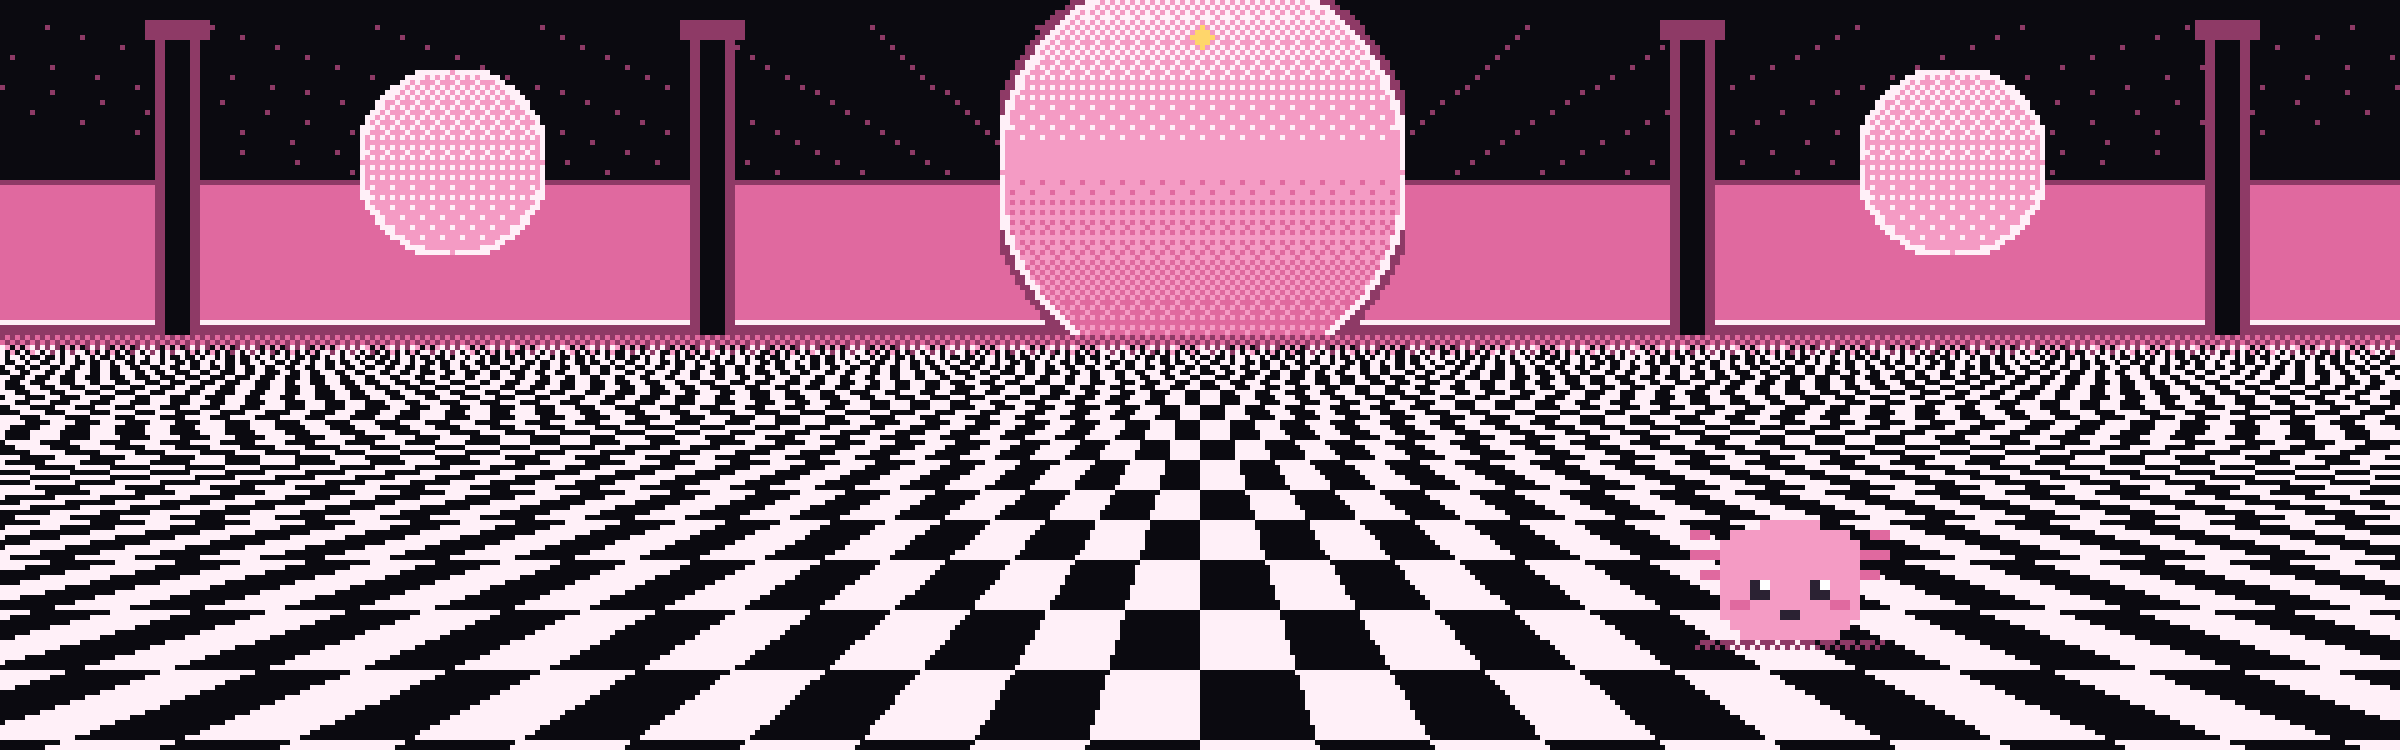
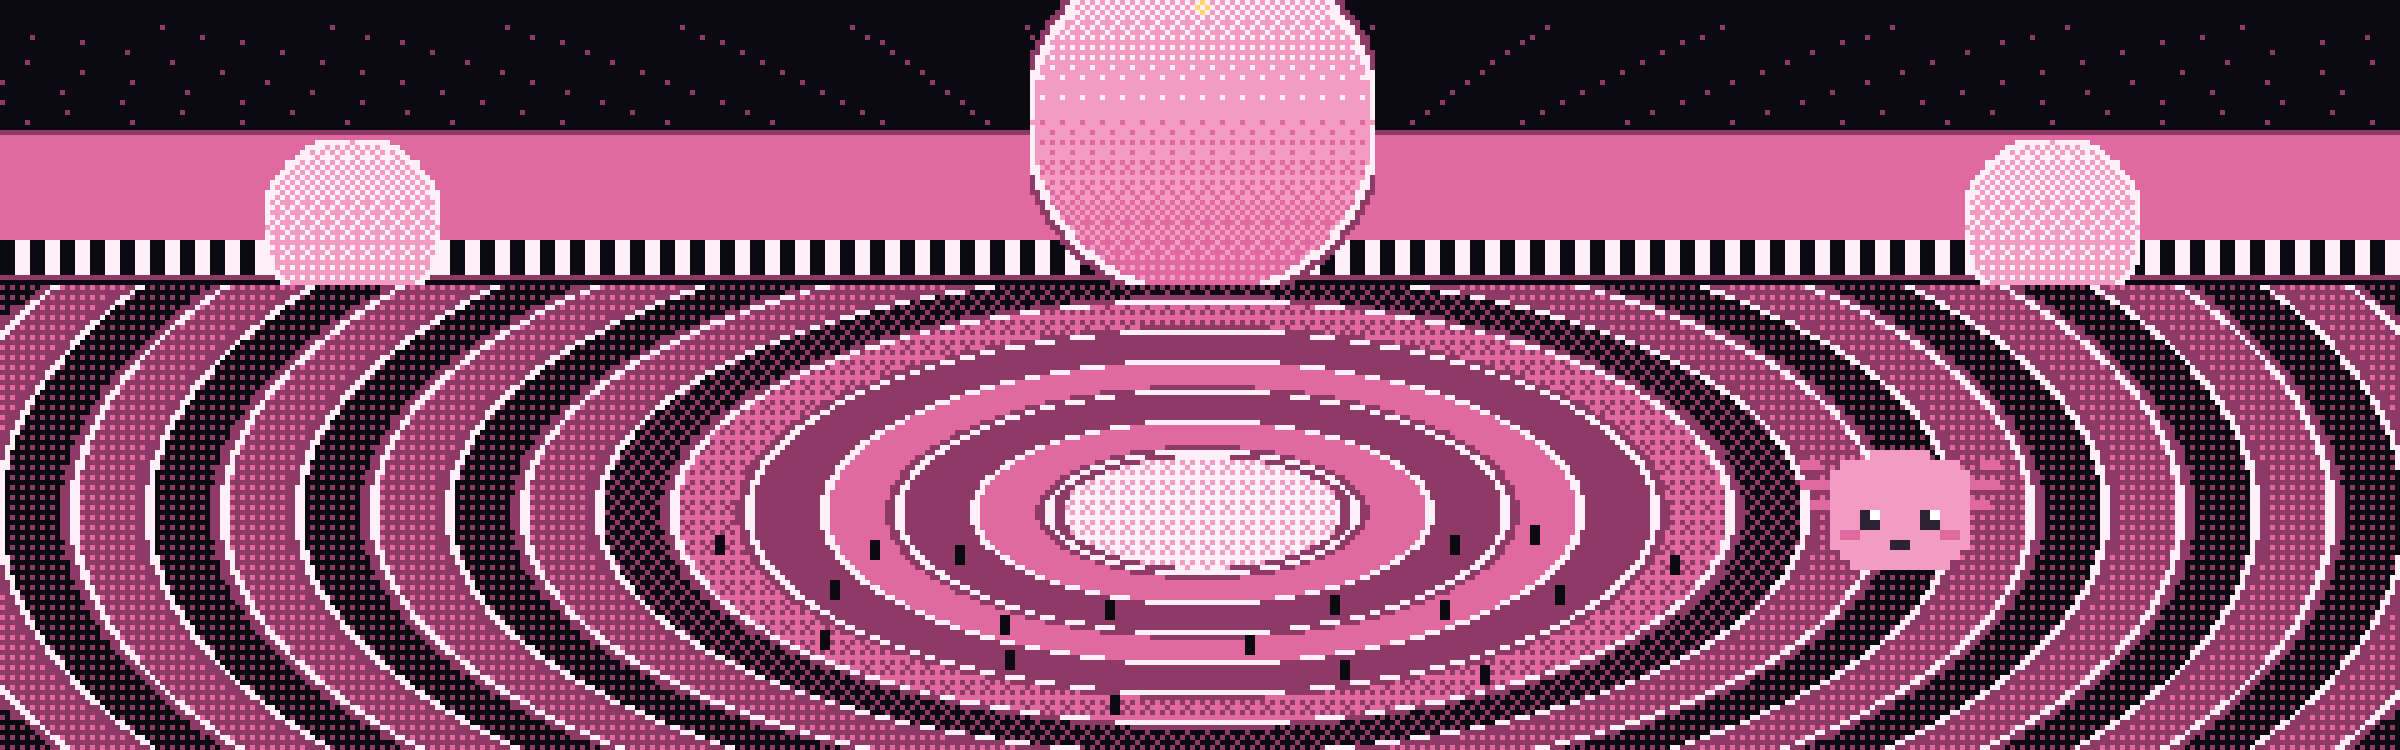
feat(site): 포트폴리오 v15 — 해부극장 + 스크롤 카메라 (란티모스 인상 패스)
체커보드 제거: 두 씬을 표본 무대 중심 동심원 계단 관중석(해부극장)으로
재구축 — 페트리 링=루프 링, 계단의 감사자 실루엣, 오브 램프. 와이드 홀은
터미널이 표본(Geodi는 관중석에). 스크롤=카메라: 씬 푸시줌, 홀 풀백,
워드마크 룸, 배너 패럴랙스, 고스트 카운터줌 (transform-only, RM 게이트).

Claude-Session: https://claude.ai/code/session_01PqVsEXaJAUXfpCbsdzRavA

diff --git a/site/src/app/portfolio/page.tsx b/site/src/app/portfolio/page.tsx
@@ -8,7 +8,7 @@ import { Token } from "@astryxdesign/core/Token";
 import { motion, useReducedMotion, useScroll, useTransform } from "framer-motion";
 import Image from "next/image";
 import Link from "next/link";
-import { useState } from "react";
+import { useRef, useState } from "react";
 
 import { GeodiSprite } from "@/components/geode/geodi-sprite";
 import { LocaleProvider, t, useLocale } from "@/components/geode/locale-context";
@@ -137,6 +137,8 @@ function HeroField() {
   const { scrollY } = useScroll();
   const fieldOpacity = useTransform(scrollY, [0, 700], [1, 0.25]);
   const fieldScale = useTransform(scrollY, [0, 700], [1, 0.965]);
+  // The Lanthimos zoom: scroll pushes the camera into the theatre.
+  const sceneZoom = useTransform(scrollY, [0, 900], [1, 1.22]);
   // Reduced motion keeps the fades but drops movement/scale.
   const heroItem = {
     hidden: { opacity: 0, y: reduceMotion ? 0 : 24 },
@@ -218,7 +220,9 @@ function HeroField() {
             <motion.div
               animate={reduceMotion ? undefined : { y: [0, -7, 0] }}
               transition={{ duration: 7, repeat: Infinity, ease: "easeInOut" }}
+              className="overflow-hidden"
             >
+              <motion.div style={{ scale: reduceMotion ? 1 : sceneZoom, transformOrigin: "50% 78%" }}>
               <Image
                 src="/geode/images/geode-lab-scene.png"
                 alt={t(
@@ -232,6 +236,7 @@ function HeroField() {
                 className="w-full select-none border border-[color-mix(in_srgb,var(--paper)_35%,transparent)]"
                 style={{ imageRendering: "pixelated" }}
               />
+              </motion.div>
             </motion.div>
           </motion.div>
         </div>
@@ -246,21 +251,27 @@ function HeroField() {
   );
 }
 
-/** Full-bleed gallery band: blurred illustration with the CLI terminal. */
+/** Full-bleed gallery band: the theatre hall with the CLI terminal on stage. */
 function GalleryBand() {
   const locale = useLocale();
   const reduceMotion = useReducedMotion();
+  const bandRef = useRef<HTMLDivElement | null>(null);
+  const { scrollYProgress } = useScroll({ target: bandRef, offset: ["start end", "end start"] });
+  // Camera pulls back as the act arrives, then keeps drifting.
+  const hallScale = useTransform(scrollYProgress, [0, 0.5, 1], [1.28, 1.06, 1]);
   return (
-      <div className="relative w-full">
-        <Image
-          src="/geode/images/geode-hall-wide.png"
-          alt=""
-          aria-hidden
-          width={2400}
-          height={750}
-          className="h-[480px] w-full select-none object-cover sm:h-[560px]"
-          style={{ imageRendering: "pixelated" }}
-        />
+      <div ref={bandRef} className="relative w-full overflow-hidden">
+        <motion.div style={{ scale: reduceMotion ? 1 : hallScale, transformOrigin: "50% 42%" }}>
+          <Image
+            src="/geode/images/geode-hall-wide.png"
+            alt=""
+            aria-hidden
+            width={2400}
+            height={750}
+            className="h-[480px] w-full select-none object-cover sm:h-[560px]"
+            style={{ imageRendering: "pixelated" }}
+          />
+        </motion.div>
         <motion.div
           className="absolute inset-0 flex items-center justify-center px-4 sm:px-6"
           initial={{ opacity: 0, y: reduceMotion ? 0 : 46 }}
@@ -698,8 +709,12 @@ const features: {
 
 function FeaturesGrid() {
   const locale = useLocale();
+  const reduceMotion = useReducedMotion();
+  const slabRef = useRef<HTMLDivElement | null>(null);
+  const { scrollYProgress } = useScroll({ target: slabRef, offset: ["start end", "end start"] });
+  const bannerDrift = useTransform(scrollYProgress, [0, 1], [26, -26]);
   return (
-    <section id="features" style={{ backgroundColor: "#FFF0F8" }}>
+    <section id="features" ref={slabRef} style={{ backgroundColor: "#FFF0F8" }}>
       <div className="mx-auto max-w-7xl px-6 py-20 sm:py-28">
         <div className="grid gap-x-8 gap-y-16 md:grid-cols-2 xl:grid-cols-3">
           {features.map((feature) => (
@@ -713,8 +728,13 @@ function FeaturesGrid() {
               >
                 {locale === "en" ? feature.headEn : feature.headKo}
               </h2>
-              <div className="mt-5 flex h-[230px] items-center justify-center overflow-hidden rounded-sm bg-[var(--paper)] px-2">
-                {feature.banner}
+              <div className="mt-5 h-[230px] overflow-hidden rounded-sm bg-[var(--paper)]">
+                <motion.div
+                  className="flex h-full items-center justify-center px-2"
+                  style={{ y: reduceMotion ? 0 : bannerDrift }}
+                >
+                  {feature.banner}
+                </motion.div>
               </div>
               <p className="mt-4 max-w-[380px] text-[13px] leading-[1.75]" style={{ color: SLAB_INK }}>
                 {t(locale, feature.ko, feature.en)}
@@ -737,14 +757,22 @@ function FeaturesGrid() {
 /* ---------------- giant wordmark band ------------------------------------ */
 
 function WordmarkBand() {
+  const reduceMotion = useReducedMotion();
+  const bandRef = useRef<HTMLDivElement | null>(null);
+  const { scrollYProgress } = useScroll({ target: bandRef, offset: ["start end", "end start"] });
+  const loom = useTransform(scrollYProgress, [0, 1], [0.9, 1.12]);
   return (
     <div
+      ref={bandRef}
       aria-hidden
       className="flex h-screen select-none items-center justify-center overflow-hidden bg-[var(--paper)]"
     >
-      <p className="font-pixel whitespace-nowrap text-center text-[23.5vw] font-bold leading-[0.86] text-[var(--acc-artifact)]">
+      <motion.p
+        style={{ scale: reduceMotion ? 1 : loom }}
+        className="font-pixel whitespace-nowrap text-center text-[23.5vw] font-bold leading-[0.86] text-[var(--acc-artifact)]"
+      >
         GEODE
-      </p>
+      </motion.p>
     </div>
   );
 }
@@ -754,12 +782,18 @@ function WordmarkBand() {
 function LabFinale() {
   const locale = useLocale();
   const reduceMotion = useReducedMotion();
+  const finaleRef = useRef<HTMLElement | null>(null);
+  const { scrollYProgress } = useScroll({ target: finaleRef, offset: ["start end", "end start"] });
+  const ghostScale = useTransform(scrollYProgress, [0, 1], [1.16, 0.94]);
   return (
-    <section id="lab" className="relative overflow-hidden bg-[var(--acc-artifact)]">
+    <section id="lab" ref={finaleRef} className="relative overflow-hidden bg-[var(--acc-artifact)]">
       <div aria-hidden className="pointer-events-none absolute inset-0 flex items-center justify-center">
-        <span className="font-pixel select-none text-[24vw] font-bold leading-none text-[var(--paper)] opacity-[0.06]">
+        <motion.span
+          style={{ scale: reduceMotion ? 1 : ghostScale }}
+          className="font-pixel select-none text-[24vw] font-bold leading-none text-[var(--paper)] opacity-[0.06]"
+        >
           GEODE
-        </span>
+        </motion.span>
       </div>
       <div className="relative z-10 mx-auto flex max-w-5xl flex-col items-center gap-7 px-6 py-24 text-center sm:py-32">
         <p className="font-mono text-[11px] uppercase tracking-[0.3em] text-[color-mix(in_srgb,var(--paper)_65%,transparent)]">

diff --git a/site/src/data/geode/changelog.ts b/site/src/data/geode/changelog.ts
@@ -19,7 +19,7 @@ export const CHANGELOG: ChangelogEntry[] = [
   {
     "version": "0.99.287",
     "date": "2026-07-10",
-    "body": "### Changed\n\n- **Portfolio v11 — landing-grade pass on the growth log (operator feedback\n  batch).** The hero is now centered with a terminal mock of the real CLI\n  welcome screen (`core/ui/mascot.py` line layout + `GEODI_PIXELS` sprite,\n  2-frame idle bob and blinking prompt caret, `prefers-reduced-motion`\n  respected), followed by a bento sheet band: the character-sheet aside, a\n  bench card rendering the synced tau2/MCPMark matrices\n  (`src/data/geode/benchmark-measurements.ts` — Retail 0.763 / Telecom 0.877 /\n  Airline 0.820 base runs, MCPMark filesystem/easy 100%), and a refreshed\n  tech-stack card (`tech-stack.ts` re-measured 2026-07-10; the stale\n  LangGraph/98-tests inventory is gone). Reference bar: the Claude Code\n  landing (product moment first, mascot as section divider, dated feed).\n- **Character-facing display font: Galmuri11.** The pixel font (SIL OFL,\n  woff2 vendored in `site/src/fonts/`) now carries /portfolio display\n  headings, era titles, stat numbers, and the docs-shell wordmark, matching\n  the dot mascot; body prose stays Inter. Korean headings use\n  `word-break: keep-all`.\n- **Docs shell carries the mascot.** The docs header brand renders a static\n  `GeodiSprite` beside the pixel wordmark; docs prose remains mascot-free.\n- **Selling points over inventory counts (operator feedback).** A \"why geode\"\n  section leads the page with the three differentiators (safety-gated\n  self-improvement, an execution-owning loop, subscription-resident\n  multi-provider), each pinned to a code path; the hero paragraph now sells\n  the essence instead of release counts. Section 03's body loop gains a\n  pixel-styled hexagon cycle diagram (while(tool_use) ring, finalize exit);\n  bench matrices gain per-value bars plus explicit model · provider · source\n  route lines (gpt-5.5 · openai-codex · subscription / gpt-5.2 · openai ·\n  payg), and the character sheet records supported providers. Copy: \"부화\"\n  retired for a \"Birth\" label, \"장비\" for \"도구\"; the growth log ends with an\n  open \"next act\" row reserved for the first self-cut release.\n- **Loop-laboratory art direction, final pass (Hermes landing x Lanthimos).**\n  Full rewrite of the page's first act: a rose color-field hero in the Hermes\n  split composition (editorial Noto Serif KR black statement left, generated\n  white-line engraving of the mascot right — PIL FIND_EDGES + dither hatch,\n  edge-feathered into the field), pixel wordmark as the centered brand mark,\n  mono small-caps labels, print-edition corner stamps (version, license), and\n  a full-bleed blurred gallery band with the real CLI welcome terminal\n  floating at its center. The chapter break becomes a portal-style band:\n  ghost pixel watermark, serif declaration, and the mascot as a specimen in a\n  circular petri dish (the audit system is literally named Petri). Type\n  hierarchy is now serif = statements/section titles, pixel = wordmark and\n  character surfaces, mono = labels. The YouTube demo section is removed per\n  operator; frontend stack is confirmed as Next.js 16 + React 19 + Tailwind 4\n  + Astryx + Galmuri11 + Noto Serif KR.\n- **Set dressing pass (operator: less lo-fi, more Lanthimos + Hermes).**\n  The hero scene gains engraving-style rays radiating from the gold sun,\n  arched gallery windows with tracery, a striped dado (the Poor Things bar\n  counter), stacked glowing orb lamps, and a specimen dais inlaid beneath\n  the mascot; the gallery blur is replaced by a generated wide pixel hall\n  (`geode-hall-wide.png`, three portholes + colonnade) so the floating\n  terminal sits in front of the central porthole. Reduced-motion now keeps\n  opacity fades (movement/scale only are dropped) so choreography survives\n  macOS Reduce Motion; dead CadenceChart code removed.\n- **Act-curtain page transitions.** Scrolling now changes acts instead of\n  sliding one long page: the hero field pins beneath the flow and dims/scales\n  back as the gallery band rides over it, and the giant wordmark pins as a\n  full-screen act that the rose finale then covers (pure position: sticky\n  stacking + framer scroll transforms — no scroll hijack, fully\n  interruptible, reduced-motion gated). Vercel web-interface-guidelines pass:\n  text-balance on display headings, touch-action on primary CTAs; finale\n  eyebrow reads \"cultured since\" (lab tone) instead of \"birth\".\n- **Content demolition — the Hermes screen-recording grammar (operator\n  directive).** The dossier sections (why/sheet/loop/growth/evolve with their\n  tables and logs) are torn down and rebuilt as: a three-way RUN row\n  (Terminal / MCP Server / Daemon with command chips), six numbered\n  editorial plates on a rose-white print slab (#1 RUNS THE LOOP .. #6 ON\n  YOUR SUBSCRIPTIONS — serif-caps headlines over dark art banners reusing\n  the loop/audit/seedgen diagrams, tau2 figures, and perception lines), a\n  giant edge-to-edge pixel GEODE wordmark band, and a Loop Laboratory\n  finale (specimen dish, birth/release stats, docs + full-record CTAs,\n  corner stamps). Astryx Token remains on the reside plate; the measured\n  claims survive in distilled form.\n- **Nacreous sky field + frame-breaks (Poor Things trailer review).** The\n  hero's flat rose field becomes a generated pixel sky (`geode-sky.png`:\n  domain-warped sine swirls dithered into white crests and deep-rose shadows,\n  with a calmed zone behind the statement text), and crisp pixel clouds\n  drift across — and past — the lab-scene frame (`PixelCloud`, steps()\n  animation, reduced-motion gated).\n- **Representative character image + motion pass (dot art x Lanthimos).**\n  `geode-lab-scene.png` is generated procedurally (PIL): Geodi centered in a\n  one-point-perspective laboratory hall — The Favourite's checkerboard\n  marble, Poor Things' porthole sky with a gold sun, Sacred Deer symmetry —\n  in a 6-color pixel palette, and mounts as the hero's right panel. The page\n  defaults to English (`LocaleProvider` gains `defaultLocale`; Korean copy\n  retained behind the toggle pending operator review), and framer-motion\n  choreography lands: hero stagger, scene idle float, terminal rise into the\n  gallery band, petri-dish spring, cadence bars growing on view — all gated\n  by `useReducedMotion`. Superseded etch/plate drafts removed.\n- **Perception and action, as implemented (operator PDF review).** The loop\n  section now grounds four capabilities in their modules: the two-layer\n  prompt (`<static_context>` cached / `<dynamic_context>` per-turn with\n  provider-gated current date, `core/agent/system_prompt.py`), local PDF\n  ingest (`core/tools/document_ingest.py`), real-Chrome CDP browser use\n  (`core/tools/browser_tools.py`), and the provider-agnostic computer-use\n  harness with the AX-tree first rung (`core/tools/computer_use.py` ·\n  `ui_probe.py`). Loop copy adds the explicit termination-reason catalog.\n- **Self-evolving apparatus, drawn (Hermes-landing style feature visuals).**\n  Two pixel schematics join the loop diagram: the audit-gate diagram\n  (scaffold mutation, adversarial Petri arena, dimension bars with the\n  critical floor, promote/reject branches with the gate·random·never arms)\n  and the seed-hypothesis factory (generator, critic, pilot, ranker, evolver\n  with candidates culled per stage, Elo + difficulty survivor blend). An\n  honest attempt-history log records what did not work: the zero-promotion\n  saturation finding and Crucible cycle 1's \"proved the protocol, not\n  self-improvement\" conclusion, with dates and version anchors.\n- **Identity details.** The site favicon is now the canonical GEODI_PIXELS\n  sprite (generated `src/app/icon.png` + `favicon.ico`), a mascot-budgeted\n  404 page lands at `src/app/not-found.tsx`, and the hero/card sprites react\n  to clicks with a three-hop pixel bounce (`prefers-reduced-motion` guarded).\n- **De-slop: decorative arrows and the dev-blog link are gone.** CTA/link\n  arrows (`→`, `▸`) are removed site-portfolio-wide (ranges now use `~`), and\n  the Dev Blog link is dropped from the portfolio hero and the shared footer.\n  Growth-log sections gain restrained scroll reveals (existing framer-motion\n  `ScrollReveal`)."
+    "body": "### Changed\n\n- **Portfolio v11 — landing-grade pass on the growth log (operator feedback\n  batch).** The hero is now centered with a terminal mock of the real CLI\n  welcome screen (`core/ui/mascot.py` line layout + `GEODI_PIXELS` sprite,\n  2-frame idle bob and blinking prompt caret, `prefers-reduced-motion`\n  respected), followed by a bento sheet band: the character-sheet aside, a\n  bench card rendering the synced tau2/MCPMark matrices\n  (`src/data/geode/benchmark-measurements.ts` — Retail 0.763 / Telecom 0.877 /\n  Airline 0.820 base runs, MCPMark filesystem/easy 100%), and a refreshed\n  tech-stack card (`tech-stack.ts` re-measured 2026-07-10; the stale\n  LangGraph/98-tests inventory is gone). Reference bar: the Claude Code\n  landing (product moment first, mascot as section divider, dated feed).\n- **Character-facing display font: Galmuri11.** The pixel font (SIL OFL,\n  woff2 vendored in `site/src/fonts/`) now carries /portfolio display\n  headings, era titles, stat numbers, and the docs-shell wordmark, matching\n  the dot mascot; body prose stays Inter. Korean headings use\n  `word-break: keep-all`.\n- **Docs shell carries the mascot.** The docs header brand renders a static\n  `GeodiSprite` beside the pixel wordmark; docs prose remains mascot-free.\n- **Selling points over inventory counts (operator feedback).** A \"why geode\"\n  section leads the page with the three differentiators (safety-gated\n  self-improvement, an execution-owning loop, subscription-resident\n  multi-provider), each pinned to a code path; the hero paragraph now sells\n  the essence instead of release counts. Section 03's body loop gains a\n  pixel-styled hexagon cycle diagram (while(tool_use) ring, finalize exit);\n  bench matrices gain per-value bars plus explicit model · provider · source\n  route lines (gpt-5.5 · openai-codex · subscription / gpt-5.2 · openai ·\n  payg), and the character sheet records supported providers. Copy: \"부화\"\n  retired for a \"Birth\" label, \"장비\" for \"도구\"; the growth log ends with an\n  open \"next act\" row reserved for the first self-cut release.\n- **Loop-laboratory art direction, final pass (Hermes landing x Lanthimos).**\n  Full rewrite of the page's first act: a rose color-field hero in the Hermes\n  split composition (editorial Noto Serif KR black statement left, generated\n  white-line engraving of the mascot right — PIL FIND_EDGES + dither hatch,\n  edge-feathered into the field), pixel wordmark as the centered brand mark,\n  mono small-caps labels, print-edition corner stamps (version, license), and\n  a full-bleed blurred gallery band with the real CLI welcome terminal\n  floating at its center. The chapter break becomes a portal-style band:\n  ghost pixel watermark, serif declaration, and the mascot as a specimen in a\n  circular petri dish (the audit system is literally named Petri). Type\n  hierarchy is now serif = statements/section titles, pixel = wordmark and\n  character surfaces, mono = labels. The YouTube demo section is removed per\n  operator; frontend stack is confirmed as Next.js 16 + React 19 + Tailwind 4\n  + Astryx + Galmuri11 + Noto Serif KR.\n- **The anatomical theatre + scroll-as-camera (Lanthimos impression pass).**\n  The checkerboard floors are gone: both generated scenes are rebuilt around\n  Poor Things' anatomical theatre — concentric tiered rings around the\n  specimen stage (petri rings = loop rings), sparse dark auditor silhouettes\n  watching from the tiers (the Petri panel), orb lamps flanking; in the wide\n  hall the floating CLI terminal itself becomes the specimen (Geodi sits in\n  the audience watching its own run). Scroll now drives the cinematography:\n  the hero scene push-zooms toward the specimen (the Lanthimos slow zoom),\n  the hall pulls back as its act arrives, the pinned wordmark looms, feature\n  banners drift in parallax, and the finale ghost counter-zooms — all\n  transform-only, reduced-motion gated.\n- **Set dressing pass (operator: less lo-fi, more Lanthimos + Hermes).**\n  The hero scene gains engraving-style rays radiating from the gold sun,\n  arched gallery windows with tracery, a striped dado (the Poor Things bar\n  counter), stacked glowing orb lamps, and a specimen dais inlaid beneath\n  the mascot; the gallery blur is replaced by a generated wide pixel hall\n  (`geode-hall-wide.png`, three portholes + colonnade) so the floating\n  terminal sits in front of the central porthole. Reduced-motion now keeps\n  opacity fades (movement/scale only are dropped) so choreography survives\n  macOS Reduce Motion; dead CadenceChart code removed.\n- **Act-curtain page transitions.** Scrolling now changes acts instead of\n  sliding one long page: the hero field pins beneath the flow and dims/scales\n  back as the gallery band rides over it, and the giant wordmark pins as a\n  full-screen act that the rose finale then covers (pure position: sticky\n  stacking + framer scroll transforms — no scroll hijack, fully\n  interruptible, reduced-motion gated). Vercel web-interface-guidelines pass:\n  text-balance on display headings, touch-action on primary CTAs; finale\n  eyebrow reads \"cultured since\" (lab tone) instead of \"birth\".\n- **Content demolition — the Hermes screen-recording grammar (operator\n  directive).** The dossier sections (why/sheet/loop/growth/evolve with their\n  tables and logs) are torn down and rebuilt as: a three-way RUN row\n  (Terminal / MCP Server / Daemon with command chips), six numbered\n  editorial plates on a rose-white print slab (#1 RUNS THE LOOP .. #6 ON\n  YOUR SUBSCRIPTIONS — serif-caps headlines over dark art banners reusing\n  the loop/audit/seedgen diagrams, tau2 figures, and perception lines), a\n  giant edge-to-edge pixel GEODE wordmark band, and a Loop Laboratory\n  finale (specimen dish, birth/release stats, docs + full-record CTAs,\n  corner stamps). Astryx Token remains on the reside plate; the measured\n  claims survive in distilled form.\n- **Nacreous sky field + frame-breaks (Poor Things trailer review).** The\n  hero's flat rose field becomes a generated pixel sky (`geode-sky.png`:\n  domain-warped sine swirls dithered into white crests and deep-rose shadows,\n  with a calmed zone behind the statement text), and crisp pixel clouds\n  drift across — and past — the lab-scene frame (`PixelCloud`, steps()\n  animation, reduced-motion gated).\n- **Representative character image + motion pass (dot art x Lanthimos).**\n  `geode-lab-scene.png` is generated procedurally (PIL): Geodi centered in a\n  one-point-perspective laboratory hall — The Favourite's checkerboard\n  marble, Poor Things' porthole sky with a gold sun, Sacred Deer symmetry —\n  in a 6-color pixel palette, and mounts as the hero's right panel. The page\n  defaults to English (`LocaleProvider` gains `defaultLocale`; Korean copy\n  retained behind the toggle pending operator review), and framer-motion\n  choreography lands: hero stagger, scene idle float, terminal rise into the\n  gallery band, petri-dish spring, cadence bars growing on view — all gated\n  by `useReducedMotion`. Superseded etch/plate drafts removed.\n- **Perception and action, as implemented (operator PDF review).** The loop\n  section now grounds four capabilities in their modules: the two-layer\n  prompt (`<static_context>` cached / `<dynamic_context>` per-turn with\n  provider-gated current date, `core/agent/system_prompt.py`), local PDF\n  ingest (`core/tools/document_ingest.py`), real-Chrome CDP browser use\n  (`core/tools/browser_tools.py`), and the provider-agnostic computer-use\n  harness with the AX-tree first rung (`core/tools/computer_use.py` ·\n  `ui_probe.py`). Loop copy adds the explicit termination-reason catalog.\n- **Self-evolving apparatus, drawn (Hermes-landing style feature visuals).**\n  Two pixel schematics join the loop diagram: the audit-gate diagram\n  (scaffold mutation, adversarial Petri arena, dimension bars with the\n  critical floor, promote/reject branches with the gate·random·never arms)\n  and the seed-hypothesis factory (generator, critic, pilot, ranker, evolver\n  with candidates culled per stage, Elo + difficulty survivor blend). An\n  honest attempt-history log records what did not work: the zero-promotion\n  saturation finding and Crucible cycle 1's \"proved the protocol, not\n  self-improvement\" conclusion, with dates and version anchors.\n- **Identity details.** The site favicon is now the canonical GEODI_PIXELS\n  sprite (generated `src/app/icon.png` + `favicon.ico`), a mascot-budgeted\n  404 page lands at `src/app/not-found.tsx`, and the hero/card sprites react\n  to clicks with a three-hop pixel bounce (`prefers-reduced-motion` guarded).\n- **De-slop: decorative arrows and the dev-blog link are gone.** CTA/link\n  arrows (`→`, `▸`) are removed site-portfolio-wide (ranges now use `~`), and\n  the Dev Blog link is dropped from the portfolio hero and the shared footer.\n  Growth-log sections gain restrained scroll reveals (existing framer-motion\n  `ScrollReveal`)."
   },
   {
     "version": "0.99.286",

diff --git a/CHANGELOG.md b/CHANGELOG.md
@@ -92,6 +92,17 @@ functional change.
   character surfaces, mono = labels. The YouTube demo section is removed per
   operator; frontend stack is confirmed as Next.js 16 + React 19 + Tailwind 4
   + Astryx + Galmuri11 + Noto Serif KR.
+- **The anatomical theatre + scroll-as-camera (Lanthimos impression pass).**
+  The checkerboard floors are gone: both generated scenes are rebuilt around
+  Poor Things' anatomical theatre — concentric tiered rings around the
+  specimen stage (petri rings = loop rings), sparse dark auditor silhouettes
+  watching from the tiers (the Petri panel), orb lamps flanking; in the wide
+  hall the floating CLI terminal itself becomes the specimen (Geodi sits in
+  the audience watching its own run). Scroll now drives the cinematography:
+  the hero scene push-zooms toward the specimen (the Lanthimos slow zoom),
+  the hall pulls back as its act arrives, the pinned wordmark looms, feature
+  banners drift in parallax, and the finale ghost counter-zooms — all
+  transform-only, reduced-motion gated.
 - **Set dressing pass (operator: less lo-fi, more Lanthimos + Hermes).**
   The hero scene gains engraving-style rays radiating from the gold sun,
   arched gallery windows with tracery, a striped dado (the Poor Things bar